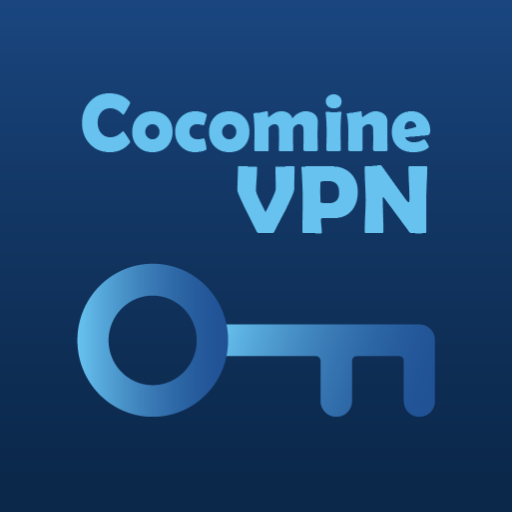
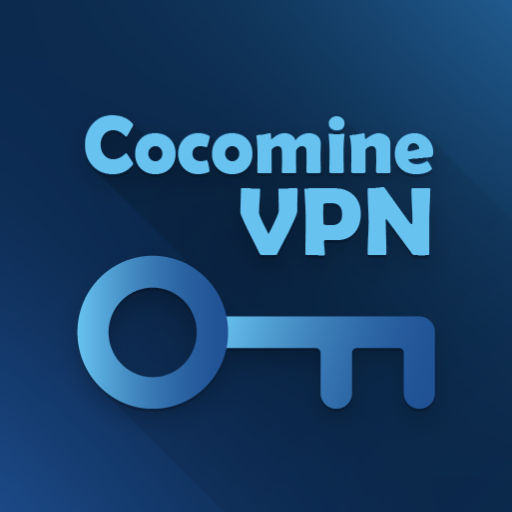
更換圖標

diff --git a/public/index.html b/public/index.html
@@ -7,21 +7,21 @@
     <meta name="theme-color" content="#2F2F2FFF" />
     <meta
       name="description"
-      content="VPN Manager is a web application that allows you to manage VPN node."
+      content="Cocomine VPN Manager is a web application that allows you to manage VPN node."
     />
     <link rel="apple-touch-icon" href="%PUBLIC_URL%/apple-touch-icon.png">
 
     <meta property="og:type" content="website">
     <meta property="og:locale" content="zh">
-    <meta property="og:title" content="VPN Manager - cocomine">
-    <meta property="og:image" content="%PUBLIC_URL%/screenshot2.webp">
+    <meta property="og:title" content="Cocomine VPN">
+    <meta property="og:image" content="%PUBLIC_URL%/tv_banner.png">
     <meta property="og:image:type" content="image/webp">
-    <meta property="og:image:width" content="1920">
-    <meta property="og:image:height" content="1080">
-    <meta property="og:image:alt" content="Homescreen">
-    <meta property="og:site_name" content="VPN Manager">
+    <meta property="og:image:width" content="320">
+    <meta property="og:image:height" content="180">
+    <meta property="og:image:alt" content="Cocomine VPN Banner">
+    <meta property="og:site_name" content="Cocomine VPN">
     <meta property="og:description"
-          content="VPN Manager is a web application that allows you to manage VPN node. Create by cocomine.">
+          content="Cocomine VPN Manager is a web application that allows you to manage VPN node. Create by cocomine.">
     <meta property="og:url" content="%PUBLIC_URL%">
     <meta name="twitter:card" content="summary_large_image">
     <meta name="twitter:site" content="@CocomineRoguish">
@@ -40,7 +40,7 @@
       work correctly both with client-side routing and a non-root public URL.
       Learn how to configure a non-root public URL by running `npm run build`.
     -->
-    <title>VPN Manager</title>
+    <title>Cocomine VPN</title>
   </head>
   <body>
     <noscript>You need to enable JavaScript to run this app.</noscript>

diff --git a/src/action.tsx b/src/action.tsx
@@ -112,7 +112,7 @@ const Action: React.FC = () => {
     // set title
     useEffect(() => {
         if (location.pathname === '/' + vmData._id) {
-            document.title = vmData._name + " - VPN Manager"
+            document.title = vmData._name + " - Cocomine VPN"
             setShow(true)
         }
     }, [location, vmData]);
@@ -351,7 +351,7 @@ const ChooseProfile: React.FC = () => {
 
     // set title
     useEffect(() => {
-        document.title = vmData._name + " Profile - VPN Manager"
+        document.title = vmData._name + " Profile - Cocomine VPN"
     }, [vmData]);
 
     // block navigation when modal is open

diff --git a/src/index.tsx b/src/index.tsx
@@ -10,7 +10,7 @@ import {Download} from "./download";
 import * as serviceWorkerRegistration from './serviceWorkerRegistration';
 import {connectWebsocket} from "./websocks";
 
-const APP_VERSION = "1.11.8";
+const APP_VERSION = "1.11.9";
 
 // create router
 const router = createBrowserRouter([
@@ -55,7 +55,7 @@ const root = ReactDOM.createRoot(
 );
 
 figlet.defaults({fontPath: "/ascii-fonts"});
-figlet.text('Cocomine VPN Manager', {
+figlet.text('Cocomine VPN', {
     font: 'ANSI Shadow',
     horizontalLayout: 'full',
     verticalLayout: 'full',

diff --git a/src/download.tsx b/src/download.tsx
@@ -24,7 +24,7 @@ const Download = () => {
     // set title
     useEffect(() => {
         if (location.pathname === '/download') {
-            document.title = "下載程式 - VPN Manager"
+            document.title = "下載程式 - Cocomine VPN"
             setShow(true)
         }
     }, [location]);

diff --git a/src/App.tsx b/src/App.tsx
@@ -70,7 +70,7 @@ function App() {
 
     // set title
     useEffect(() => {
-        if (location.pathname === "/") document.title = "Home - VPN Manager"
+        if (location.pathname === "/") document.title = "Home - Cocomine VPN"
     }, [location]);
 
     // tab visibilitychange
